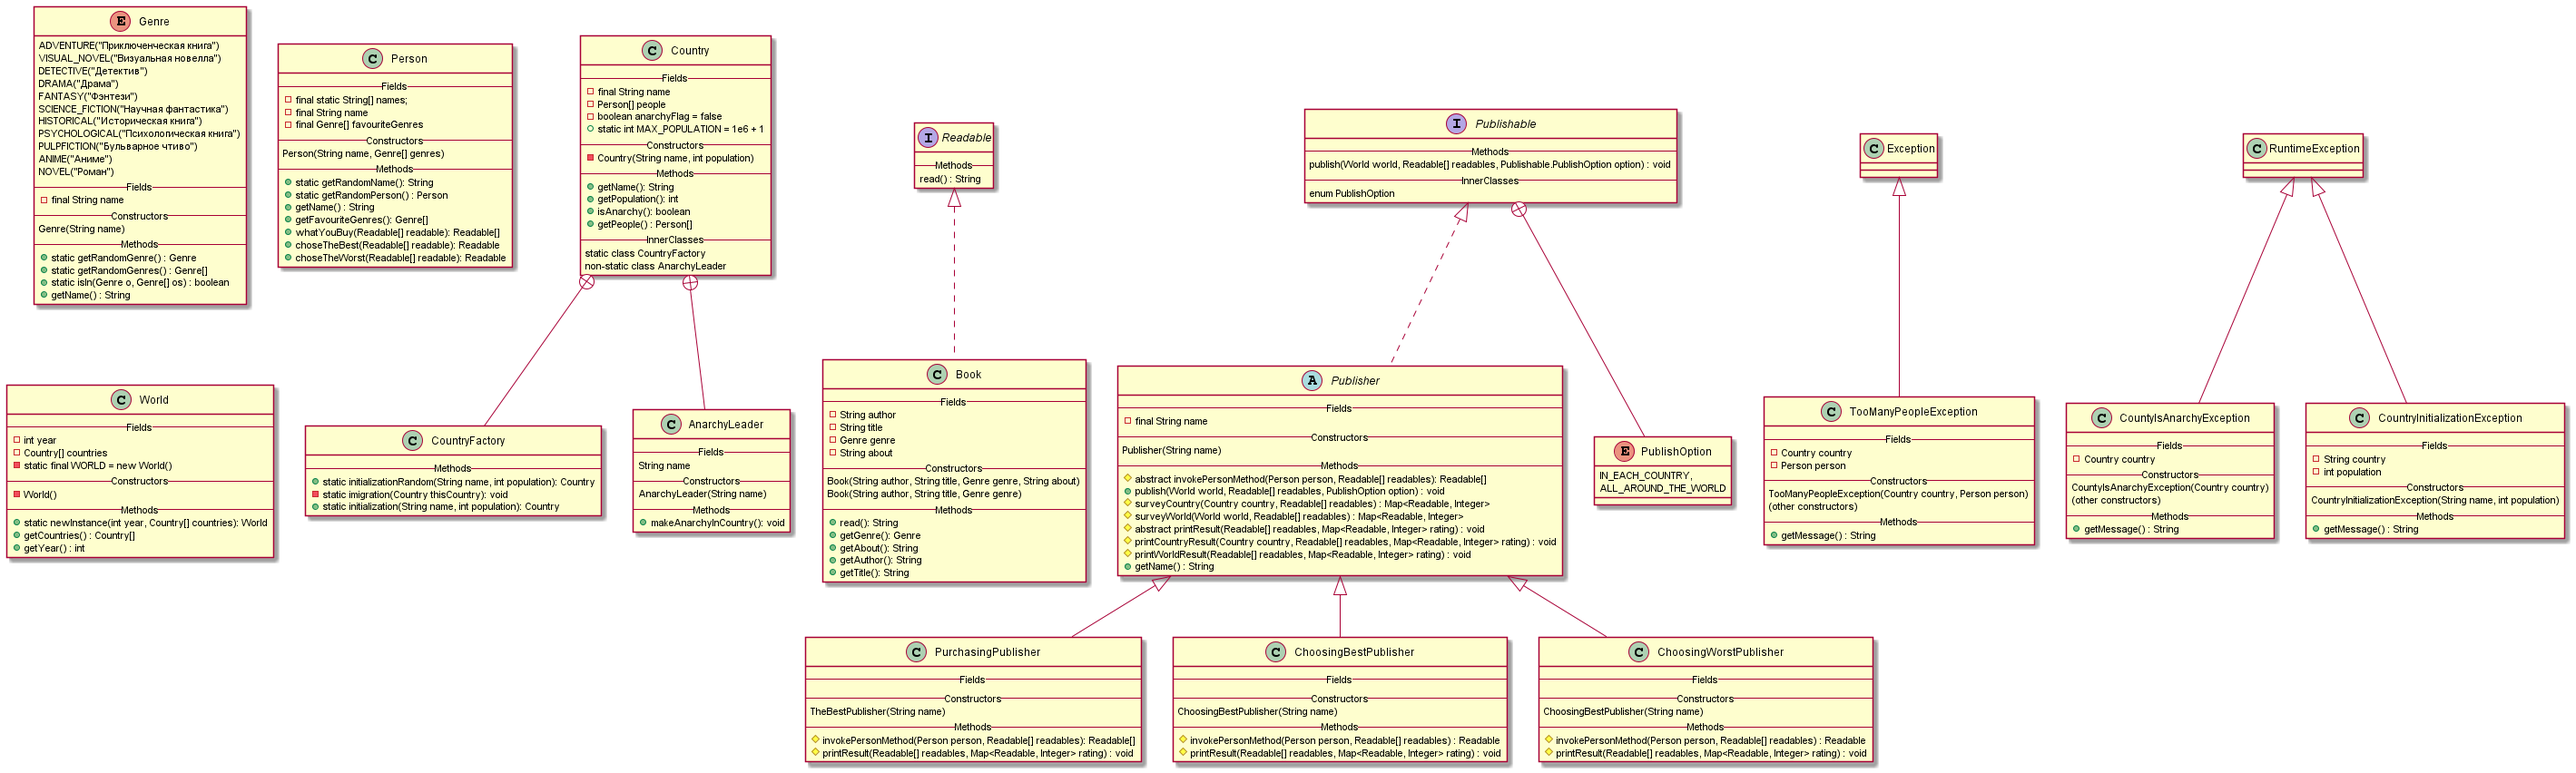
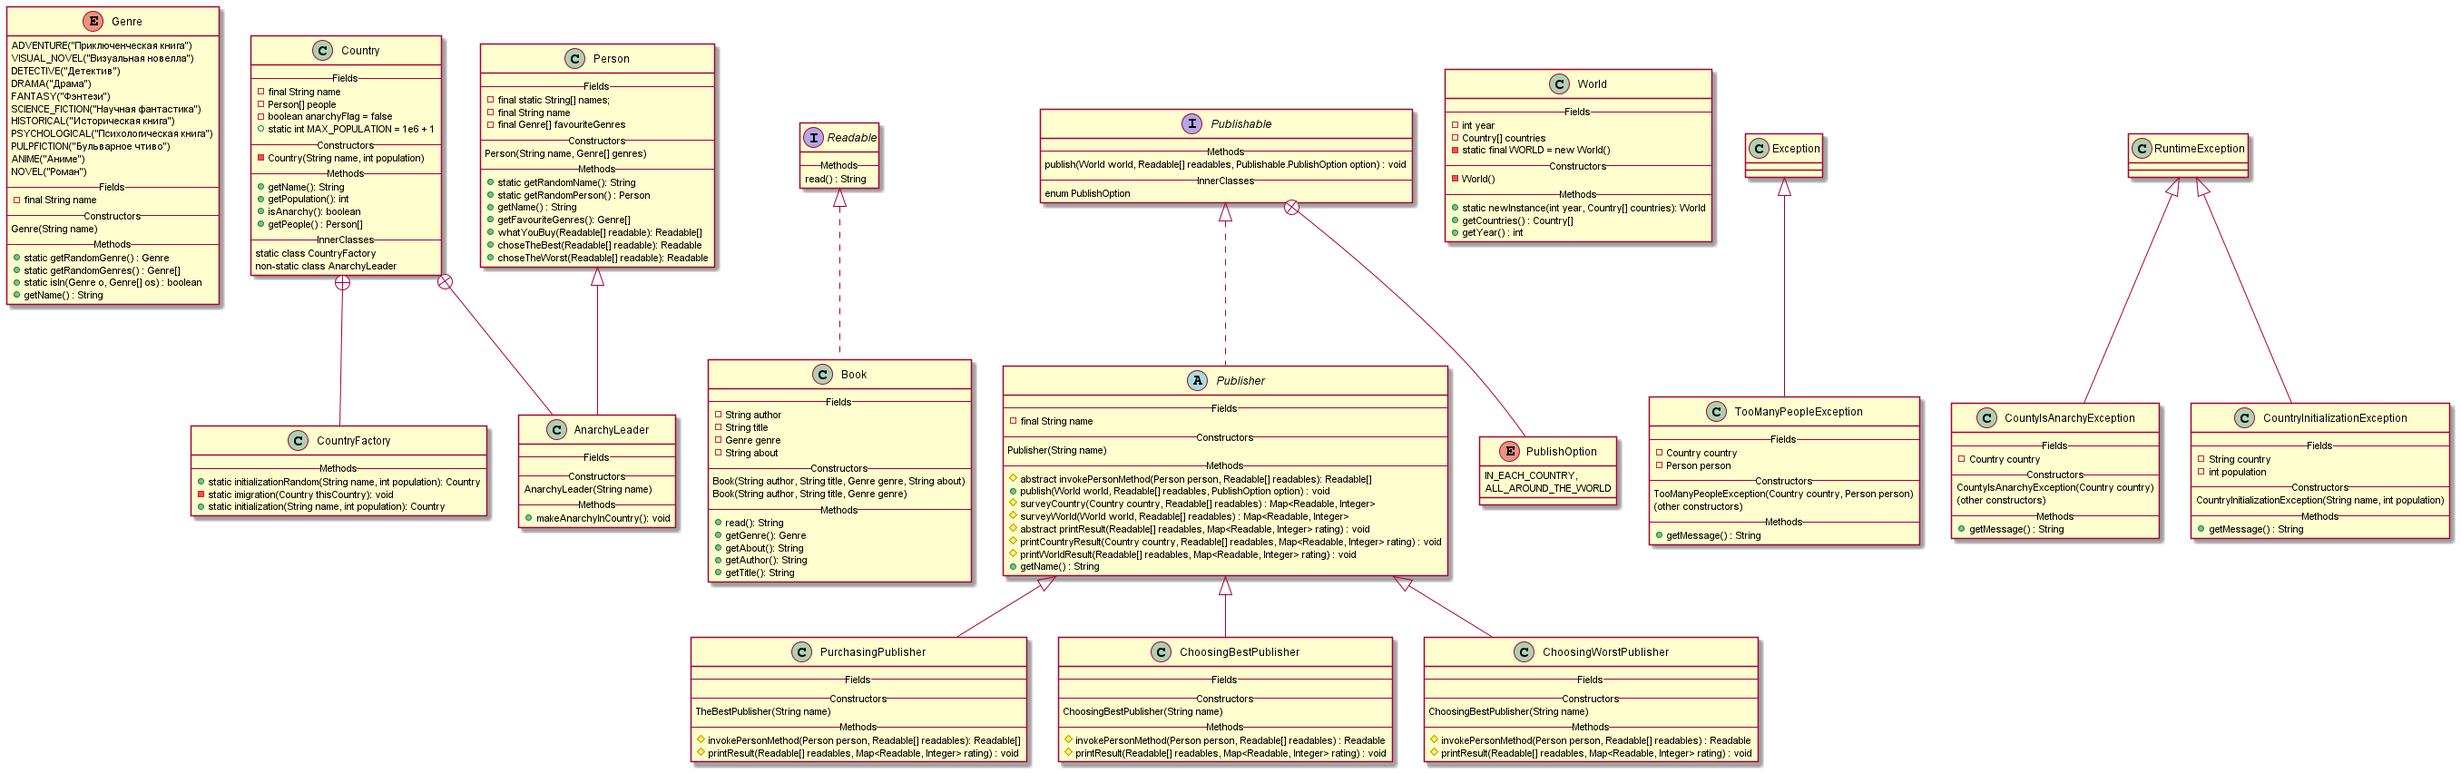
Final commit? (small fixes)

diff --git a/src/TheBestLab4/Country.java b/src/TheBestLab4/Country.java
@@ -79,19 +79,18 @@ public class Country {
     /**
      * Inner non-static class AnarchyLeader represent person, who can make country anarchy
      */
-    public class AnarchyLeader{
-        String name;
+    public class AnarchyLeader extends Person {
 
         public AnarchyLeader(String name){
-            this.name = name;
+            super(name, new Genre[]{Genre.REVOLUTION, Genre.ANIME});
         }
 
         /**
          * Method, which makes country anarchy
          */
-        public void makeAnarchyInCountry(){
+        public void makeAnarchyInCountry() {
             Country.this.anarchyFlag = true;
-            System.out.println("В стране " + getName() + " вспыхнуло восстание, лидером которого стал " + name + ".");
+            System.out.println("В стране " + Country.this.getName() + " вспыхнуло восстание, лидером которого стал " + getName() + ".");
         }
     }
 

diff --git a/src/TheBestLab4/Genre.java b/src/TheBestLab4/Genre.java
@@ -12,9 +12,10 @@ public enum Genre {
     SCIENCE_FICTION("Научная фантастика"),
     HISTORICAL("Историческая книга"),
     PSYCHOLOGICAL("Психологическая книга"),
-    PULPFICTION("Бульварное чтиво"),
+    PULP_FICTION("Бульварное чтиво"),
     ANIME("Аниме"),
-    NOVEL("Роман");
+    NOVEL("Роман"),
+    REVOLUTION("Книга о революции");
 
     private final String name;
 

diff --git a/src/TheBestLab4/PurchasingPublisher.java b/src/TheBestLab4/PurchasingPublisher.java
@@ -1,6 +1,5 @@
 package TheBestLab4;
 
-import java.util.HashMap;
 import java.util.Map;
 
 /**

diff --git a/README.md b/README.md
@@ -1,3 +1,28 @@
 # TheBestRealizationLabWork4
 
+1. Красивая диаграмма:
+
 ![Image alt](https://github.com/Andryss/TheBestRealizationLabWork4/raw/Version_3/TheBestUML1.png)
+
+2. ~~Некрасивая~~ Правильная диаграмма:
+
+![Image alt](https://github.com/Andryss/TheBestRealizationLabWork4/raw/Version_3/TheBestUML2.png)
+
+(диаграммы различаются лишь значками при модификаторах доступа)
+
+## Текст задания
+
+Издательская компания «Эксмо» совместно с Hoff представила данные по
+книжным предпочтениям россиян в 2021 году: абсолютным лидером продаж
+стали книги (издание и переиздание) Михаила Лабковского «Хочу и буду»,
+сообщили в пресс-службе.
+
+Книги психолога лидировали по продажам по всей стране: за год было
+продано более 129 тыс. экземпляров первого издания и 34,5 тыс. второго.
+
+На втором месте по популярности у покупателей детектив «Внутри убийцы»
+израильского писателя Майка Омера (более 92 тыс. экземпляров) про
+криминального психолога-женщину, расследующую череду жестоких
+преступлений. Тройку лидеров продаж замыкает роман «Transhumanism inc.»
+Виктора Пелевина — новинка российского автора разошлась в количестве 71
+тыс. экземпляров.
